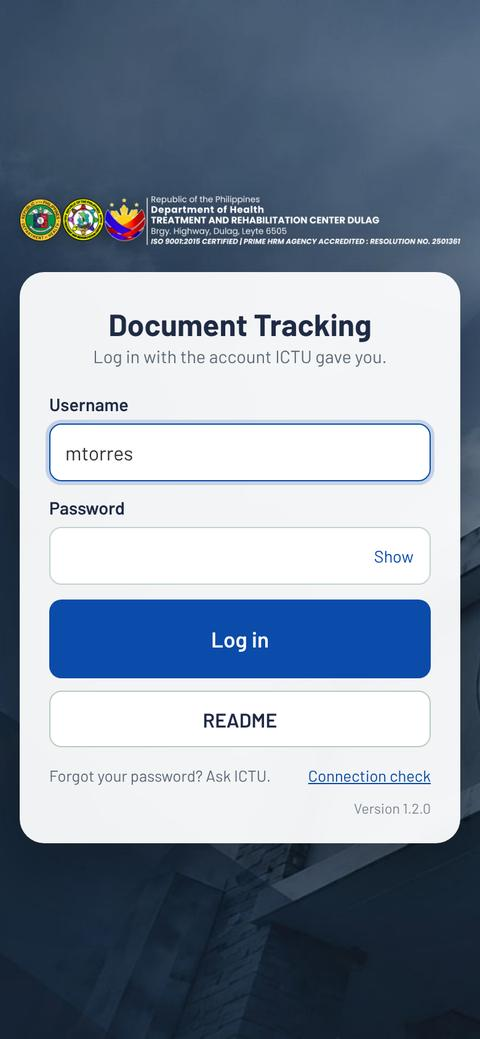
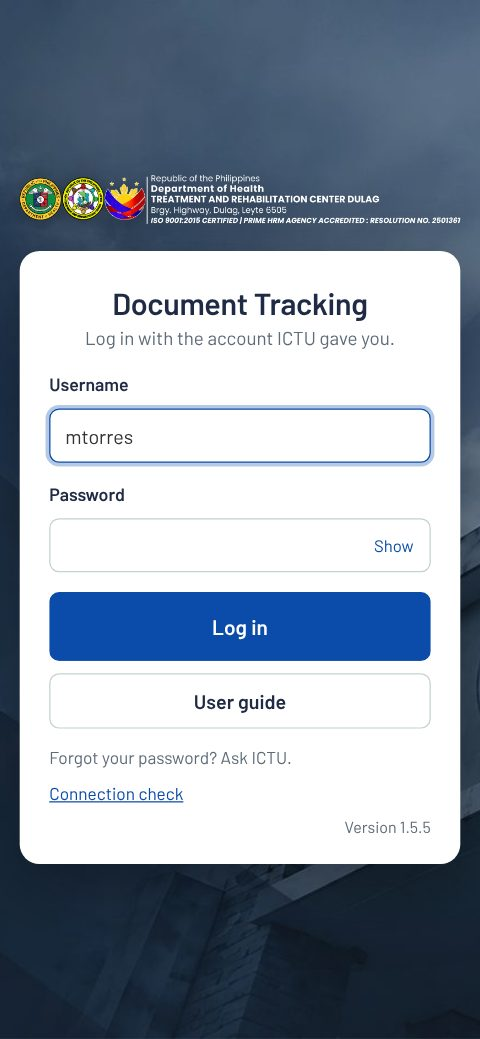
Version 1.5.5 plainer wording, User guide button, install steps

Changed region(s): [[0.0312, 0.154, 0.9688, 0.77], [0.0312, 0.7392, 0.9688, 0.8316]]

diff --git a/readme.html b/readme.html
@@ -3,7 +3,7 @@
 <head>
   <meta charset="utf-8">
   <meta name="viewport" content="width=device-width, initial-scale=1, viewport-fit=cover">
-  <title>README | Document Tracking | TRC Dulag</title>
+  <title>User guide | Document Tracking | TRC Dulag</title>
   <meta name="theme-color" content="#1F2A45">
   <meta name="robots" content="noindex, nofollow">
   <meta http-equiv="Content-Security-Policy" content="default-src 'self'; script-src 'self'; style-src 'self' 'unsafe-inline'; img-src 'self' data:; font-src 'self'; base-uri 'self'; form-action 'self'">
@@ -49,9 +49,17 @@
 <text x="300" y="94" fill="#AD0F0A" font-size="14" font-weight="600">Return</text><text x="300" y="112" fill="#AD0F0A" font-size="13">with a</text><text x="300" y="128" fill="#AD0F0A" font-size="13">reason</text>
 </g></svg><p class="rm-note small muted">Each office picks the next office when it forwards. The paper goes with it.</p></section>
 
-    <nav class="rm-toc" aria-label="Contents"><a href="#account"><span>1</span>Account</a><a href="#login"><span>2</span>Log in</a><a href="#new"><span>3</span>Send</a><a href="#receive"><span>4</span>Receive</a><a href="#next"><span>5</span>Forward / return</a><a href="#track"><span>6</span>Find</a><a href="#signature"><span>7</span>Signature</a><a href="#help"><span>?</span>Help</a><a href="#changes"><span>★</span>What's new</a></nav>
+    <nav class="rm-toc" aria-label="Contents"><a href="#account"><span>1</span>Account</a><a href="#login"><span>2</span>Log in</a><a href="#install"><span>+</span>Add to device</a><a href="#new"><span>3</span>Send</a><a href="#receive"><span>4</span>Receive</a><a href="#next"><span>5</span>Forward / return</a><a href="#track"><span>6</span>Find</a><a href="#signature"><span>7</span>Signature</a><a href="#offline"><span>!</span>Internet down</a><a href="#help"><span>?</span>Help</a><a href="#changes"><span>★</span>What's new</a></nav>
 
-    <section id="account" class="rm-step c-blue"><div class="rm-head"><span class="rm-num">1</span><span class="rm-ic"><svg viewBox="0 0 24 24" fill="none" stroke="currentColor" stroke-width="2" stroke-linecap="round" stroke-linejoin="round" aria-hidden="true"><circle cx="12" cy="8" r="4"/><path d="M4 21c1.5-4 4.5-6 8-6s6.5 2 8 6"/></svg></span><h2>Get your account</h2></div><div class="rm-text"><ol class="rm-list"><li>Ask <b>ICTU</b> for an account.</li><li>ICTU gives you a <b>username</b> and a <b>temporary password</b>.</li><li>Your account is only for you. Do not share it.</li></ol></div><div class="rm-shots"><figure class="phone"><img src="assets/readme/login.jpg" alt="The login page" loading="lazy" width="480" height="1039"><figcaption>The login page</figcaption></figure></div></section><section id="login" class="rm-step c-navy"><div class="rm-head"><span class="rm-num">2</span><span class="rm-ic"><svg viewBox="0 0 24 24" fill="none" stroke="currentColor" stroke-width="2" stroke-linecap="round" stroke-linejoin="round" aria-hidden="true"><circle cx="8" cy="15" r="4"/><path d="m11 12 9-9M17 6l3 3M15 8l2 2"/></svg></span><h2>Log in the first time</h2></div><div class="rm-text"><ol class="rm-list"><li>Type your username and password, tap <b>Log in</b>.</li><li>Choose your own password: 8 or more letters and numbers.</li><li>On a phone, tap <b>Install this app</b> to put it on your home screen.</li></ol></div><div class="rm-shots"><figure class="phone"><img src="assets/readme/password.jpg" alt="Set your own password" loading="lazy" width="480" height="1039"><figcaption>Set your own password</figcaption></figure></div></section><section id="new" class="rm-step c-blue"><div class="rm-head"><span class="rm-num">3</span><span class="rm-ic"><svg viewBox="0 0 24 24" fill="none" stroke="currentColor" stroke-width="2" stroke-linecap="round" stroke-linejoin="round" aria-hidden="true"><circle cx="12" cy="12" r="10"/><path d="M12 8v8M8 12h8"/></svg></span><h2>Send a document</h2></div><div class="rm-text"><ol class="rm-list"><li>Tap <b>New</b>. Type the title, choose the type and the <b>first office</b>.</li><li>Tap <b>Log and get tracking number</b>.</li><li>Tap <b>Print label</b>, stick or print it on page 1, and bring the paper.</li></ol></div><div class="rm-shots"><figure class="phone"><img src="assets/readme/new.jpg" alt="Fill in the form" loading="lazy" width="480" height="1039"><figcaption>Fill in the form</figcaption></figure><figure class="phone"><img src="assets/readme/logged.jpg" alt="You get a number" loading="lazy" width="480" height="1039"><figcaption>You get a number</figcaption></figure><figure class="phone"><img src="assets/readme/label.jpg" alt="Print the QR label" loading="lazy" width="480" height="1039"><figcaption>Print the QR label</figcaption></figure></div></section><section id="receive" class="rm-step c-green"><div class="rm-head"><span class="rm-num">4</span><span class="rm-ic"><svg viewBox="0 0 24 24" fill="none" stroke="currentColor" stroke-width="2" stroke-linecap="round" stroke-linejoin="round" aria-hidden="true"><path d="M3 7V5a2 2 0 0 1 2-2h2M17 3h2a2 2 0 0 1 2 2v2M21 17v2a2 2 0 0 1-2 2h-2M7 21H5a2 2 0 0 1-2-2v-2"/><rect x="7" y="7" width="4" height="4"/><rect x="13" y="13" width="4" height="4"/></svg></span><h2>Receive a document</h2></div><div class="rm-text"><ol class="rm-list"><li>On <b>My office</b>, tap <b>Scan to receive</b> and point at the QR label (or type the number, like <b>10-001</b>).</li><li>Tap <b>Receive and sign</b>.</li><li>Sign with your finger, or type your <b>PIN</b> to use your stored signature.</li></ol></div><div class="rm-shots"><figure class="phone"><img src="assets/readme/inbox.jpg" alt="My office" loading="lazy" width="480" height="1039"><figcaption>My office</figcaption></figure><figure class="phone"><img src="assets/readme/scan.jpg" alt="Scan the label" loading="lazy" width="480" height="1039"><figcaption>Scan the label</figcaption></figure><figure class="phone"><img src="assets/readme/sign.jpg" alt="Sign with your finger" loading="lazy" width="480" height="1039"><figcaption>Sign with your finger</figcaption></figure><figure class="phone"><img src="assets/readme/pin.jpg" alt="Or use your PIN" loading="lazy" width="480" height="1039"><figcaption>Or use your PIN</figcaption></figure></div></section><section id="next" class="rm-step c-amber"><div class="rm-head"><span class="rm-num">5</span><span class="rm-ic"><svg viewBox="0 0 24 24" fill="none" stroke="currentColor" stroke-width="2" stroke-linecap="round" stroke-linejoin="round" aria-hidden="true"><path d="M22 2 11 13M22 2l-7 20-4-9-9-4z"/></svg></span><h2>Forward, return or complete</h2></div><div class="rm-text"><ol class="rm-list"><li>Open the document and tap <b>Release (forward / return / complete)</b>.</li><li><b>Forward</b>: pick the next office. <b>Return</b>: pick a reason. <b>Complete</b>: last stop.</li><li>Bring the paper to the office you picked.</li></ol></div><div class="rm-shots"><figure class="phone"><img src="assets/readme/forward.jpg" alt="Forward" loading="lazy" width="480" height="1039"><figcaption>Forward</figcaption></figure><figure class="phone"><img src="assets/readme/return.jpg" alt="Return with a reason" loading="lazy" width="480" height="1039"><figcaption>Return with a reason</figcaption></figure><figure class="phone"><img src="assets/readme/complete.jpg" alt="Complete" loading="lazy" width="480" height="1039"><figcaption>Complete</figcaption></figure></div></section><section id="track" class="rm-step c-navy"><div class="rm-head"><span class="rm-num">6</span><span class="rm-ic"><svg viewBox="0 0 24 24" fill="none" stroke="currentColor" stroke-width="2" stroke-linecap="round" stroke-linejoin="round" aria-hidden="true"><circle cx="11" cy="11" r="7"/><path d="m21 21-5-5"/></svg></span><h2>Find a document</h2></div><div class="rm-text"><ol class="rm-list"><li>Tap <b>Track</b>, then type the number or tap <b>Scan QR code</b>.</li><li>See every office it passed, who signed, and where it is now.</li><li>You only see documents your office is part of.</li></ol></div><div class="rm-shots"><figure class="phone"><img src="assets/readme/track.jpg" alt="Track" loading="lazy" width="480" height="1039"><figcaption>Track</figcaption></figure><figure class="phone"><img src="assets/readme/route.jpg" alt="The full route" loading="lazy" width="480" height="1039"><figcaption>The full route</figcaption></figure><figure class="phone"><img src="assets/readme/sent.jpg" alt="Your sent documents" loading="lazy" width="480" height="1039"><figcaption>Your sent documents</figcaption></figure></div></section><section id="signature" class="rm-step c-blue"><div class="rm-head"><span class="rm-num">7</span><span class="rm-ic"><svg viewBox="0 0 24 24" fill="none" stroke="currentColor" stroke-width="2" stroke-linecap="round" stroke-linejoin="round" aria-hidden="true"><path d="M3 17c3-3 5-9 7-9s-1 9 2 9 3-4 5-4 2 3 4 3"/><path d="M3 21h18"/></svg></span><h2>Set up your signature and PIN</h2></div><div class="rm-text"><ol class="rm-list"><li>Go to <b>Account &gt; Set up signature and PIN</b>.</li><li><b>Draw it</b>, or <b>Upload a picture</b> of your signature (dark ink on white paper).</li><li>Choose a PIN of 4 to 6 digits. 5 wrong PINs lock it; ICTU unlocks it.</li></ol></div><div class="rm-shots"><figure class="phone"><img src="assets/readme/signature.jpg" alt="Draw or upload" loading="lazy" width="480" height="1039"><figcaption>Draw or upload</figcaption></figure></div></section>
+    <section id="account" class="rm-step c-blue"><div class="rm-head"><span class="rm-num">1</span><span class="rm-ic"><svg viewBox="0 0 24 24" fill="none" stroke="currentColor" stroke-width="2" stroke-linecap="round" stroke-linejoin="round" aria-hidden="true"><circle cx="12" cy="8" r="4"/><path d="M4 21c1.5-4 4.5-6 8-6s6.5 2 8 6"/></svg></span><h2>Get your account</h2></div><div class="rm-text"><ol class="rm-list"><li>Ask <b>ICTU</b> for an account.</li><li>ICTU gives you a <b>username</b> and a <b>temporary password</b>.</li><li>Your account is only for you. Do not share it.</li></ol></div><div class="rm-shots"><figure class="phone"><img src="assets/readme/login.jpg" alt="The login page" loading="lazy" width="480" height="1039"><figcaption>The login page</figcaption></figure></div></section><section id="login" class="rm-step c-navy"><div class="rm-head"><span class="rm-num">2</span><span class="rm-ic"><svg viewBox="0 0 24 24" fill="none" stroke="currentColor" stroke-width="2" stroke-linecap="round" stroke-linejoin="round" aria-hidden="true"><circle cx="8" cy="15" r="4"/><path d="m11 12 9-9M17 6l3 3M15 8l2 2"/></svg></span><h2>Log in the first time</h2></div><div class="rm-text"><ol class="rm-list"><li>Type your username and password, tap <b>Log in</b>.</li><li>Choose your own password: 8 or more letters and numbers.</li><li>Put the app on your desktop or home screen. See <a href="#install">Add the app to your device</a>.</li></ol></div><div class="rm-shots"><figure class="phone"><img src="assets/readme/password.jpg" alt="Set your own password" loading="lazy" width="480" height="1039"><figcaption>Set your own password</figcaption></figure></div></section><section id="install" class="rm-step c-green"><div class="rm-head"><span class="rm-num">+</span><span class="rm-ic"><svg viewBox="0 0 24 24" fill="none" stroke="currentColor" stroke-width="2" stroke-linecap="round" stroke-linejoin="round" aria-hidden="true"><rect x="5" y="2" width="14" height="20" rx="2"/><path d="M12 7v7M9 11l3 3 3-3M10 18h4"/></svg></span><h2>Add the app to your device</h2></div>
+<p class="rm-lead">Open <b>tinyurl.com/trcddtrack</b> first, then follow the steps for your device. The app gets its own icon, like any other app. Nothing is downloaded from an app store.</p>
+<div class="rm-tiles">
+<div class="rm-tile"><b>Office computer (Chrome or Edge)</b><span>On the login page, click <b>Install this app on this device</b>. If you do not see it, click the install icon at the right end of the address bar, then <b>Install</b>. In Edge, tick <b>Create desktop shortcut</b>. If the icon is not on the desktop, drag <b>Document Tracking</b> from the Start menu to the desktop.</span></div>
+<div class="rm-tile"><b>Android phone (Chrome)</b><span>Tap <b>Install this app on this device</b> on the login page. If you do not see it, tap the <b>&#8942;</b> menu at the top right, then <b>Add to Home screen</b> or <b>Install app</b>, then <b>Install</b>.</span></div>
+<div class="rm-tile"><b>iPhone or iPad (Safari)</b><span>Open the link in <b>Safari</b>. Tap the <b>Share</b> button (the square with an arrow pointing up), scroll down and tap <b>Add to Home Screen</b>, then <b>Add</b>.</span></div>
+<div class="rm-tile"><b>After installing</b><span>Open the app from its icon, not from the browser. Log in once. If the app looks old after an update, close it and open it again.</span></div>
+</div></section>
+    <section id="new" class="rm-step c-blue"><div class="rm-head"><span class="rm-num">3</span><span class="rm-ic"><svg viewBox="0 0 24 24" fill="none" stroke="currentColor" stroke-width="2" stroke-linecap="round" stroke-linejoin="round" aria-hidden="true"><circle cx="12" cy="12" r="10"/><path d="M12 8v8M8 12h8"/></svg></span><h2>Send a document</h2></div><div class="rm-text"><ol class="rm-list"><li>Tap <b>New</b>. Type the title, choose the type and the <b>first office</b>.</li><li>Tap <b>Log and get tracking number</b>.</li><li>Tap <b>Print label</b>, stick or print it on page 1, and bring the paper.</li></ol></div><div class="rm-shots"><figure class="phone"><img src="assets/readme/new.jpg" alt="Fill in the form" loading="lazy" width="480" height="1039"><figcaption>Fill in the form</figcaption></figure><figure class="phone"><img src="assets/readme/logged.jpg" alt="You get a number" loading="lazy" width="480" height="1039"><figcaption>You get a number</figcaption></figure><figure class="phone"><img src="assets/readme/label.jpg" alt="Print the QR label" loading="lazy" width="480" height="1039"><figcaption>Print the QR label</figcaption></figure></div></section><section id="receive" class="rm-step c-green"><div class="rm-head"><span class="rm-num">4</span><span class="rm-ic"><svg viewBox="0 0 24 24" fill="none" stroke="currentColor" stroke-width="2" stroke-linecap="round" stroke-linejoin="round" aria-hidden="true"><path d="M3 7V5a2 2 0 0 1 2-2h2M17 3h2a2 2 0 0 1 2 2v2M21 17v2a2 2 0 0 1-2 2h-2M7 21H5a2 2 0 0 1-2-2v-2"/><rect x="7" y="7" width="4" height="4"/><rect x="13" y="13" width="4" height="4"/></svg></span><h2>Receive a document</h2></div><div class="rm-text"><ol class="rm-list"><li>On <b>My office</b>, tap <b>Scan to receive</b> and point at the QR label (or type the number, like <b>10-001</b>).</li><li>Tap <b>Receive and sign</b>.</li><li>Sign with your finger, or type your <b>PIN</b> to use your stored signature.</li></ol></div><div class="rm-shots"><figure class="phone"><img src="assets/readme/inbox.jpg" alt="My office" loading="lazy" width="480" height="1039"><figcaption>My office</figcaption></figure><figure class="phone"><img src="assets/readme/scan.jpg" alt="Scan the label" loading="lazy" width="480" height="1039"><figcaption>Scan the label</figcaption></figure><figure class="phone"><img src="assets/readme/sign.jpg" alt="Sign with your finger" loading="lazy" width="480" height="1039"><figcaption>Sign with your finger</figcaption></figure><figure class="phone"><img src="assets/readme/pin.jpg" alt="Or use your PIN" loading="lazy" width="480" height="1039"><figcaption>Or use your PIN</figcaption></figure></div></section><section id="next" class="rm-step c-amber"><div class="rm-head"><span class="rm-num">5</span><span class="rm-ic"><svg viewBox="0 0 24 24" fill="none" stroke="currentColor" stroke-width="2" stroke-linecap="round" stroke-linejoin="round" aria-hidden="true"><path d="M22 2 11 13M22 2l-7 20-4-9-9-4z"/></svg></span><h2>Forward, return or complete</h2></div><div class="rm-text"><ol class="rm-list"><li>Open the document and tap <b>Release (forward / return / complete)</b>.</li><li><b>Forward</b>: pick the next office. <b>Return</b>: pick a reason. <b>Complete</b>: last stop.</li><li>Bring the paper to the office you picked.</li></ol></div><div class="rm-shots"><figure class="phone"><img src="assets/readme/forward.jpg" alt="Forward" loading="lazy" width="480" height="1039"><figcaption>Forward</figcaption></figure><figure class="phone"><img src="assets/readme/return.jpg" alt="Return with a reason" loading="lazy" width="480" height="1039"><figcaption>Return with a reason</figcaption></figure><figure class="phone"><img src="assets/readme/complete.jpg" alt="Complete" loading="lazy" width="480" height="1039"><figcaption>Complete</figcaption></figure></div></section><section id="track" class="rm-step c-navy"><div class="rm-head"><span class="rm-num">6</span><span class="rm-ic"><svg viewBox="0 0 24 24" fill="none" stroke="currentColor" stroke-width="2" stroke-linecap="round" stroke-linejoin="round" aria-hidden="true"><circle cx="11" cy="11" r="7"/><path d="m21 21-5-5"/></svg></span><h2>Find a document</h2></div><div class="rm-text"><ol class="rm-list"><li>Tap <b>Track</b>, then type the number or tap <b>Scan QR code</b>.</li><li>See every office it passed, who signed, and where it is now.</li><li>You only see documents your office is part of.</li></ol></div><div class="rm-shots"><figure class="phone"><img src="assets/readme/track.jpg" alt="Track" loading="lazy" width="480" height="1039"><figcaption>Track</figcaption></figure><figure class="phone"><img src="assets/readme/route.jpg" alt="The full route" loading="lazy" width="480" height="1039"><figcaption>The full route</figcaption></figure><figure class="phone"><img src="assets/readme/sent.jpg" alt="Your sent documents" loading="lazy" width="480" height="1039"><figcaption>Your sent documents</figcaption></figure></div></section><section id="signature" class="rm-step c-blue"><div class="rm-head"><span class="rm-num">7</span><span class="rm-ic"><svg viewBox="0 0 24 24" fill="none" stroke="currentColor" stroke-width="2" stroke-linecap="round" stroke-linejoin="round" aria-hidden="true"><path d="M3 17c3-3 5-9 7-9s-1 9 2 9 3-4 5-4 2 3 4 3"/><path d="M3 21h18"/></svg></span><h2>Set up your signature and PIN</h2></div><div class="rm-text"><ol class="rm-list"><li>Go to <b>Account &gt; Set up signature and PIN</b>.</li><li><b>Draw it</b>, or <b>Upload a picture</b> of your signature (dark ink on white paper).</li><li>Choose a PIN of 4 to 6 digits. 5 wrong PINs lock it; ICTU unlocks it.</li></ol></div><div class="rm-shots"><figure class="phone"><img src="assets/readme/signature.jpg" alt="Draw or upload" loading="lazy" width="480" height="1039"><figcaption>Draw or upload</figcaption></figure></div></section>
     <section id="offline" class="rm-step c-amber"><div class="rm-head"><span class="rm-num">!</span><span class="rm-ic"><svg viewBox="0 0 24 24" fill="none" stroke="currentColor" stroke-width="2" stroke-linecap="round" stroke-linejoin="round" aria-hidden="true"><path d="M2 8.8a15 15 0 0 1 4.2-2.6M10.7 5.1A15 15 0 0 1 22 8.8M5 12.9a10 10 0 0 1 5.2-2.7M16.8 11.2a10 10 0 0 1 2.2 1.7M8.5 16.4a5 5 0 0 1 7 0M12 20h.01M2 2l20 20"/></svg></span><h2>When the internet is down</h2></div>
 <div class="rm-tiles">
 <div class="rm-tile"><b>Use your mobile data</b><span>On your phone, you can log, receive, sign and track as usual.</span></div>

diff --git a/js/views.js b/js/views.js
@@ -21,7 +21,7 @@ const Views = (() => {
   const CHEV = '<svg class="chev" viewBox="0 0 24 24" fill="none" stroke="currentColor" stroke-width="2" stroke-linecap="round" stroke-linejoin="round" aria-hidden="true"><path d="m9 6 6 6-6 6"/></svg>';
   const CHECK = '<svg viewBox="0 0 24 24" fill="none" stroke="currentColor" stroke-width="2.4" stroke-linecap="round" stroke-linejoin="round" aria-hidden="true"><path d="m5 12.5 4.5 4.5L19 7.5"/></svg>';
   const count = (n, hot) => '<span class="count' + (hot && n ? ' hot' : '') + '">' + n + '</span>';
-  const emptyBox = (title, note) => '<div class="empty">' + Icons.inbox + '<b>' + title + '</b><span>' + note + '</span></div>';
+  const emptyBox = (title, note) => '<p class="empty">' + title + (note ? ' <span>' + note + '</span>' : '') + '</p>';
 
   function docItem(d, right) {
     return '<li><a class="item" href="#/doc/' + encodeURIComponent(d.trk) + '" data-trk="' + esc(d.trk) + '"><div class="main-txt"><div class="t">' + esc(d.title) + '</div>' +
@@ -74,14 +74,11 @@ const Views = (() => {
     const toReceive = r.docs.filter(d => d.status === 'In Transit');
     const onHand = r.docs.filter(d => d.status === 'Received');
     App.setBadge(toReceive.length);
-    const sec = (title, note, docs, right, emptyTitle, empty, hot) => '<div class="card"><h2>' + title + ' ' + count(docs.length, hot) + '</h2>' +
-      '<p class="small muted lead">' + note + '</p>' +
-      (docs.length ? '<ul class="list">' + docs.map(d => docItem(d, right(d))).join('') + '</ul>' : emptyBox(emptyTitle, empty)) + '</div>';
+    const sec = (title, docs, right, emptyTitle, hot) => '<div class="card"><h2>' + title + ' ' + count(docs.length, hot) + '</h2>' +
+      (docs.length ? '<ul class="list">' + docs.map(d => docItem(d, right(d))).join('') + '</ul>' : emptyBox(emptyTitle)) + '</div>';
     el.querySelector('[data-body]').innerHTML =
-      sec('To receive', 'Sent to your office. Sign for each one when the paper copy arrives.', toReceive,
-        d => 'sent ' + esc(since(d.statusSinceMs)) + ' ago', 'Nothing to receive right now', 'New documents sent to your office will show here.', true) +
-      sec('On hand', 'Received by your office. When done, forward it, return it, or mark it completed.', onHand,
-        d => 'held ' + esc(since(d.statusSinceMs)), 'Nothing on hand right now', 'Documents your office signs for will show here until you send them on.');
+      sec('To receive', toReceive, d => 'sent ' + esc(since(d.statusSinceMs)) + ' ago', 'No documents to receive.', true) +
+      sec('On hand', onHand, d => 'held ' + esc(since(d.statusSinceMs)), 'No documents on hand.');
     wireItems(el);
   }
 
@@ -91,7 +88,7 @@ const Views = (() => {
   async function track(el, query) {
     el.innerHTML = '<h1>Track a document</h1><div class="card">' +
       '<button class="btn big block" data-scan>' + Icons.scan + ' Scan QR code</button>' +
-      '<p class="muted small" style="text-align:center;margin:12px 0">or type the tracking number (e.g. 10-001 or just 001) or words from the title</p>' +
+      '<p class="muted small" style="text-align:center;margin:12px 0">or type the number (10-001 or 001) or words from the title</p>' +
       '<div class="row"><input type="search" class="grow mono" placeholder="10-001" autocapitalize="characters" data-trk-in>' +
       '<button class="btn" data-go>Find</button></div></div><div data-results>' + loading + '</div>';
     const input = el.querySelector('[data-trk-in]'), out = el.querySelector('[data-results]');
@@ -106,13 +103,12 @@ const Views = (() => {
     };
     const draw = (q, r) => {
       const title = !q ? 'Your office\'s documents' : 'Results for "' + esc(q) + '"';
-      const note = !q ? 'Documents your office sent or received, newest first.'
-        : (isAdmin() ? 'All documents.' : 'Only documents your office sent or received are searched.');
+      const note = !q ? '' : (isAdmin() ? '' : 'Only documents your office sent or received are searched.');
       out.innerHTML = '<div class="card"><h2>' + title + ' ' + count(r.total) + (r.total > r.docs.length ? ' <span class="muted small">newest ' + r.docs.length + ' shown</span>' : '') + '</h2>' +
-        '<p class="small muted" style="margin-top:-6px">' + note + '</p>' +
+        (note ? '<p class="small muted" style="margin-top:-6px">' + note + '</p>' : '') +
         (r.docs.length ? '<ul class="list">' + r.docs.map(d => docItem(d, esc(d.loggedAt))).join('') + '</ul>'
-          : (q ? emptyBox('No document found', 'Check the number, or try words from the title. It may also belong to offices other than yours.')
-            : emptyBox('No documents yet', 'Documents your office sends or receives will show here.'))) + '</div>';
+          : (q ? emptyBox('No document found.', 'Check the number, or try words from the title.')
+            : emptyBox('No documents yet.'))) + '</div>';
       wireItems(out);
     };
     const find = () => {
@@ -205,11 +201,11 @@ const Views = (() => {
         '<div class="notice info">Confirm the paper copy is in your hands, complete with its attachments, before you sign.</div>' +
         '<div class="choice"><label><input type="radio" name="m" value="live"' + (live ? ' checked' : '') + '> Sign now</label>' +
         '<label><input type="radio" name="m" value="stored"' + (live ? '' : ' checked') + (u.hasSignature ? '' : ' disabled') + '> Stored signature + PIN</label></div>' +
-        (u.hasSignature ? '' : '<p class="small muted" style="margin-top:-6px">To use a stored signature on a desktop, set it up once in My Account.</p>') +
+        (u.hasSignature ? '' : '<p class="small muted" style="margin-top:-6px">No stored signature yet. Set it up in Account.</p>') +
         '<div data-live-box><div data-pad></div><div class="row" style="justify-content:flex-end"><button class="btn ghost" data-clear>Clear</button></div></div>' +
         '<label class="f hidden" data-pin-box><span>Your PIN</span><input type="password" inputmode="numeric" autocomplete="off" maxlength="6" data-pin></label>' +
         (mates.length ? '<label class="f"><span>Receiving for someone else? (optional)</span><select data-for><option value="">No, I am the receiver</option>' +
-          mates.map(m => '<option>' + esc(m.name) + '</option>').join('') + '</select><small>You still sign as yourself; the record shows "received for".</small></label>' : '') +
+          mates.map(m => '<option>' + esc(m.name) + '</option>').join('') + '</select><small>You sign as yourself. The record shows "received for".</small></label>' : '') +
         '<div class="modal-foot"><button class="btn secondary" data-cancel>Cancel</button><button class="btn" data-ok>Confirm receipt</button></div>',
       onOpen: (box, close) => {
         const pad = SignaturePad.mount(box.querySelector('[data-pad]'));
@@ -347,7 +343,7 @@ const Views = (() => {
   async function newdoc(el) {
     if (isViewer()) { el.innerHTML = '<div class="notice warn">Viewer accounts cannot log documents.</div>'; return; }
     const types = (App.cfg.lists['Document Type'] || []).map(t => '<option>' + esc(t.label) + '</option>').join('');
-    el.innerHTML = '<h1>Log a document</h1><p class="muted">Enter the details and the <b>first</b> office only. Each office that receives it chooses where it goes next.</p>' +
+    el.innerHTML = '<h1>Log a document</h1><p class="muted">Choose only the <b>first</b> office. Each office picks the next one.</p>' +
       '<form class="card" data-form autocomplete="off">' +
       '<label class="f"><span>Title / subject</span><input type="text" name="title" maxlength="300" required>' +
       '<small>Keep it general. Do not include patient or client names, diagnoses or case numbers.</small></label>' +
@@ -382,7 +378,7 @@ const Views = (() => {
 
   // ---------------- my office's documents ----------------
   async function mine(el) {
-    el.innerHTML = '<div class="page-head"><div><h1>Sent by my office</h1><p class="muted">Where each document from ' + esc(App.user.office) + ' is now.</p></div>' +
+    el.innerHTML = '<div class="page-head"><div><h1>Sent by my office</h1><p class="muted">' + esc(App.user.office) + '</p></div>' +
       '<select data-filter style="max-width:220px"><option value="">All</option><option value="open">Still moving</option>' +
       '<option>Completed</option><option>Voided</option></select></div><div class="card" data-body>' + loading + '</div>';
     let r;
@@ -391,7 +387,7 @@ const Views = (() => {
       const docs = r.docs.filter(d => !f || (f === 'open' ? (d.status === 'In Transit' || d.status === 'Received') : d.status === f));
       el.querySelector('[data-body]').innerHTML = docs.length ? '<ul class="list">' + docs.map(d => docItem(d,
         (d.status === 'In Transit' || d.status === 'Received') ? esc(since(d.statusSinceMs)) + ' there' : esc(d.statusSince))).join('') + '</ul>'
-        : emptyBox('No documents here', f ? 'Try another choice in the list above.' : 'Documents your office logs will show here.');
+        : emptyBox(f ? 'No documents with this status.' : 'No documents sent yet.');
       wireItems(el);
     };
     el.querySelector('[data-filter]').onchange = draw;
@@ -403,7 +399,7 @@ const Views = (() => {
     if (!isAdmin()) { el.innerHTML = '<div class="notice warn">Reports are for Admin accounts.</div>'; return; }
     const today = new Date(), first = new Date(today.getFullYear(), today.getMonth(), 1);
     const iso = x => new Date(x.getTime() - x.getTimezoneOffset() * 60000).toISOString().slice(0, 10);
-    el.innerHTML = '<div class="page-head"><div><h1>Reports</h1><p class="muted">How documents are moving across offices.</p></div></div><div class="card"><div class="filters">' +
+    el.innerHTML = '<div class="page-head"><div><h1>Reports</h1></div></div><div class="card"><div class="filters">' +
       '<label class="f"><span>From</span><input type="date" data-from value="' + iso(first) + '"></label>' +
       '<label class="f"><span>To</span><input type="date" data-to value="' + iso(today) + '"></label>' +
       '<label class="f"><span>Status</span><select data-status><option value="">All</option><option>In Transit</option><option>Received</option><option>Completed</option><option>Voided</option></select></label>' +
@@ -425,7 +421,7 @@ const Views = (() => {
         '</tbody></table></div></div>' +
         (s.reasons.length ? '<div class="card"><h2>Return reasons</h2><table class="tbl"><tbody>' + s.reasons.map(x => '<tr><td>' + esc(x.reason) + '</td><td class="num" style="width:60px">' + x.count + '</td></tr>').join('') + '</tbody></table></div>' : '') +
         '<div class="card"><h2>Documents ' + count(list.total) + (list.total > 500 ? ' <span class="muted small">newest 500 shown</span>' : '') + '</h2>' +
-        (list.docs.length ? '<ul class="list">' + list.docs.map(d => docItem(d, esc(d.loggedAt))).join('') + '</ul>' : emptyBox('No documents match these filters', 'Try a wider date range, or choose All.')) + '</div>';
+        (list.docs.length ? '<ul class="list">' + list.docs.map(d => docItem(d, esc(d.loggedAt))).join('') + '</ul>' : emptyBox('No documents match these filters.', 'Try a wider date range, or choose All.')) + '</div>';
       wireItems(out);
     };
     el.querySelector('[data-run]').onclick = e => busy(e.currentTarget, run).catch(error);
@@ -480,7 +476,7 @@ const Views = (() => {
         '<div class="choice"><label><input type="radio" name="src" value="draw" checked> Draw it</label>' +
         '<label><input type="radio" name="src" value="upload"> Upload a picture</label></div>' +
         '<div data-draw-box><div data-pad></div><div class="row" style="justify-content:flex-end"><button class="btn ghost" data-clear>Clear</button></div></div>' +
-        '<div class="hidden" data-upload-box><p class="small muted" style="margin-top:0">Sign in dark ink on plain white paper, then take a clear photo or scan (PNG or JPG). The app removes the white paper and trims the edges.</p>' +
+        '<div class="hidden" data-upload-box><p class="small muted" style="margin-top:0">Sign in dark ink on plain white paper, then take a clear photo or scan (PNG or JPG). The white background is removed for you.</p>' +
         '<input type="file" accept="image/png,image/jpeg" class="hidden" data-file>' +
         '<button class="btn secondary block" data-pick>Choose a picture</button>' +
         '<div class="sig-preview hidden" data-preview><small class="muted">This is how your signature will look on receipts.</small></div></div>' +

diff --git a/js/app.js b/js/app.js
@@ -20,7 +20,7 @@ const Icons = {
 };
 
 const App = (() => {
-  const VERSION = '1.5.4';   // app version, shown on the login box. Keep equal to CACHE_VERSION in sw.js.
+  const VERSION = '1.5.5';   // app version, shown on the login box. Keep equal to CACHE_VERSION in sw.js.
   const cfgFile = window.APP_CONFIG;
   const root = () => document.getElementById('app');
   let installPrompt = null;
@@ -59,7 +59,7 @@ const App = (() => {
       '<button type="button" data-show>Show</button></div></label>' +
       '<button class="btn big block" type="submit">Log in</button>' +
       '<button class="btn ghost block hidden" type="button" data-install>Install this app on this device</button>' +
-      '<a class="btn secondary block login-readme" href="readme.html" data-readme>README</a>' +
+      '<a class="btn secondary block login-readme" href="readme.html" data-readme>User guide</a>' +
       '<div class="login-foot"><span>Forgot your password? Ask ICTU.</span><a href="#" data-check>Connection check</a></div>' +
       '<div class="login-ver">Version ' + VERSION + '</div>' +
       '</form></div>';
@@ -156,7 +156,7 @@ const App = (() => {
     if (!/^#\/inbox/.test(location.hash)) refreshBadge();   // My office sets the count itself
     if (u.role !== state.cfg.roles.VIEWER && !u.hasSignature && navigator.maxTouchPoints === 0 && !Api.store.get('doctrack.sigPrompted.' + u.username)) {
       Api.store.set('doctrack.sigPrompted.' + u.username, '1');
-      UI.toast('Tip: set up a stored signature and PIN in Account, to sign on this desktop.');
+      UI.toast('To sign on this computer, set up a stored signature and PIN in Account.');
     }
   }
 

diff --git a/css/app.css b/css/app.css
@@ -193,11 +193,8 @@ a.item { color: inherit; text-decoration: none; }
 .item .chev { width: 18px; height: 18px; color: #A3B2AC; flex: none; transition: transform .15s var(--ease), color .15s var(--ease); }
 .item:hover .chev { transform: translateX(2px); color: var(--blue); }
 @media (max-width: 520px) { .item .r .when { display: none; } }
-.empty { display: flex; flex-direction: column; align-items: center; gap: 4px; text-align: center; color: var(--muted); padding: 20px 16px; font-size: .9375rem;
-  border: 1px dashed var(--line); border-radius: var(--r-ctl); background: var(--surface-2); }
-.list + .empty, .lead + .empty { margin-top: 4px; }
-.empty svg { width: 26px; height: 26px; color: #8FA9A0; margin-bottom: 2px; }
-.empty b { color: var(--navy); font-weight: 600; }
+.empty { color: var(--muted); margin: 4px 0 2px; font-size: .9375rem; }
+.empty span { display: block; font-size: .875rem; }
 
 .kv { display: grid; grid-template-columns: max-content 1fr; gap: 0 16px; margin: 0; }
 .kv dt, .kv dd { padding: 8px 0; border-top: 1px solid var(--line-2); }
@@ -408,6 +405,7 @@ a.item { color: inherit; text-decoration: none; }
 .rm-tile { background: var(--mint); border-radius: 12px; padding: 12px; display: flex; flex-direction: column; gap: 4px; }
 .rm-tile b { color: var(--navy); }
 .rm-tile span { font-size: .92rem; }
+.rm-lead { margin: 0 0 10px; }
 kbd { border: 1px solid #B8CBC3; border-bottom-width: 2px; border-radius: 5px; padding: 0 5px; font: inherit; font-size: .85em; background: #fff; }
 .change + .change { border-top: 1px solid var(--line); margin-top: 12px; padding-top: 12px; }
 .change h3 { margin-bottom: .2rem; }

diff --git a/js/changelog.js b/js/changelog.js
@@ -8,6 +8,16 @@
  */
 window.CHANGELOG = [
   {
+    version: '1.5.5',
+    date: '2026-10-31',
+    update: 'App files only. No Apps Script change.',
+    changes: [
+      'The user guide has a new part, "Add the app to your device", with steps for office computers, Android phones and iPhones.',
+      'The README button on the login page is now called "User guide".',
+      'Shorter, plainer wording on My office, Track, Sent, Reports and the receive dialog. Empty lists now show one plain line.',
+    ],
+  },
+  {
     version: '1.5.4',
     date: '2026-10-23',
     update: 'App files and Apps Script (Config.gs, Documents.gs, Setup.gs). ICTU must paste the three script files and deploy a new version. A new Sheet tab "Wrong Office Scans" is made by itself the first time it is needed (or run setup once to make it now).',

diff --git a/sw.js b/sw.js
@@ -6,7 +6,7 @@
  * AFTER CHANGING ANY APP FILE, raise CACHE_VERSION (e.g. v1.1.3) so devices pick up the change,
  * and set the same number in VERSION at the top of js/app.js (it shows on the login box).
  */
-const CACHE_VERSION = 'doctrack-v1.5.4';
+const CACHE_VERSION = 'doctrack-v1.5.5';
 const FILES = [
   './', 'index.html', 'readme.html', 'config.js', 'manifest.webmanifest', 'css/app.css',
   'js/api.js', 'js/ui.js', 'js/signature.js', 'js/qr.js', 'js/print.js', 'js/views.js', 'js/app.js', 'js/changelog.js', 'js/readme.js',
